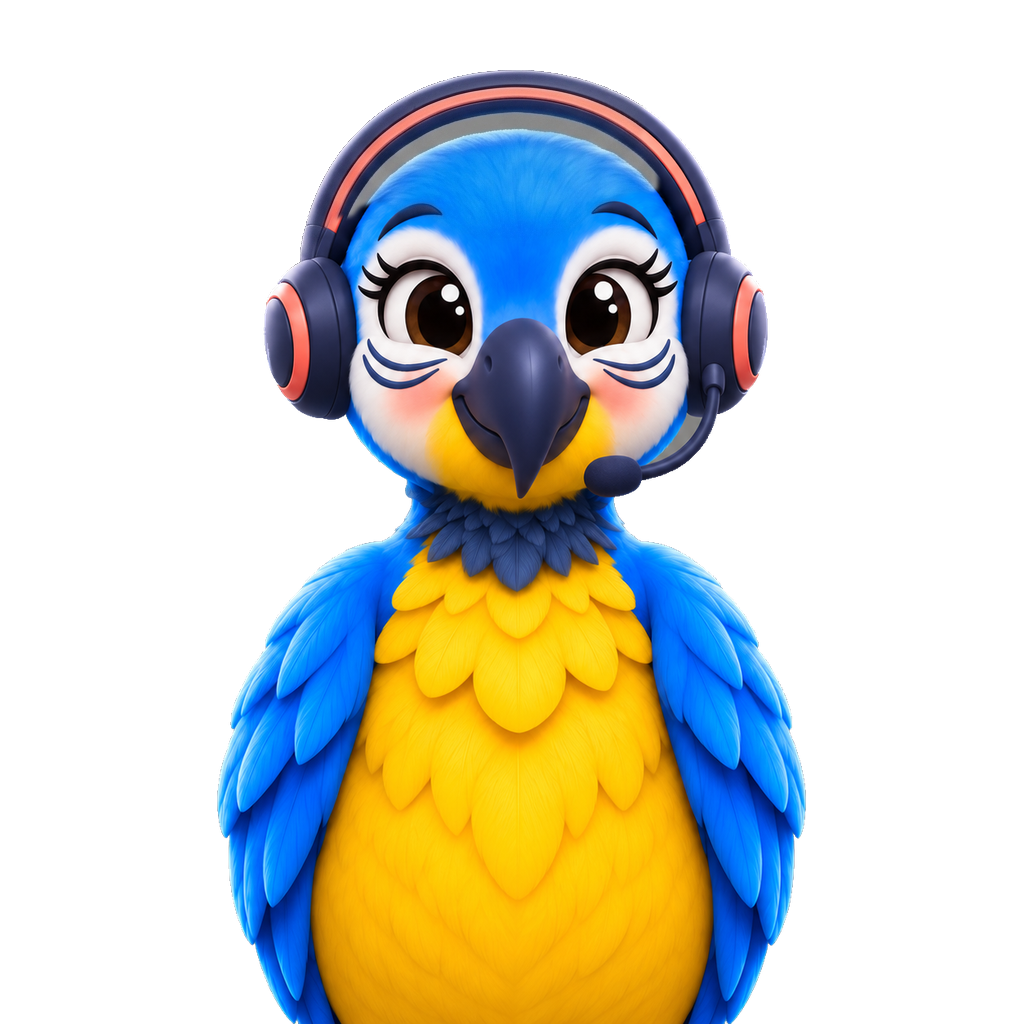
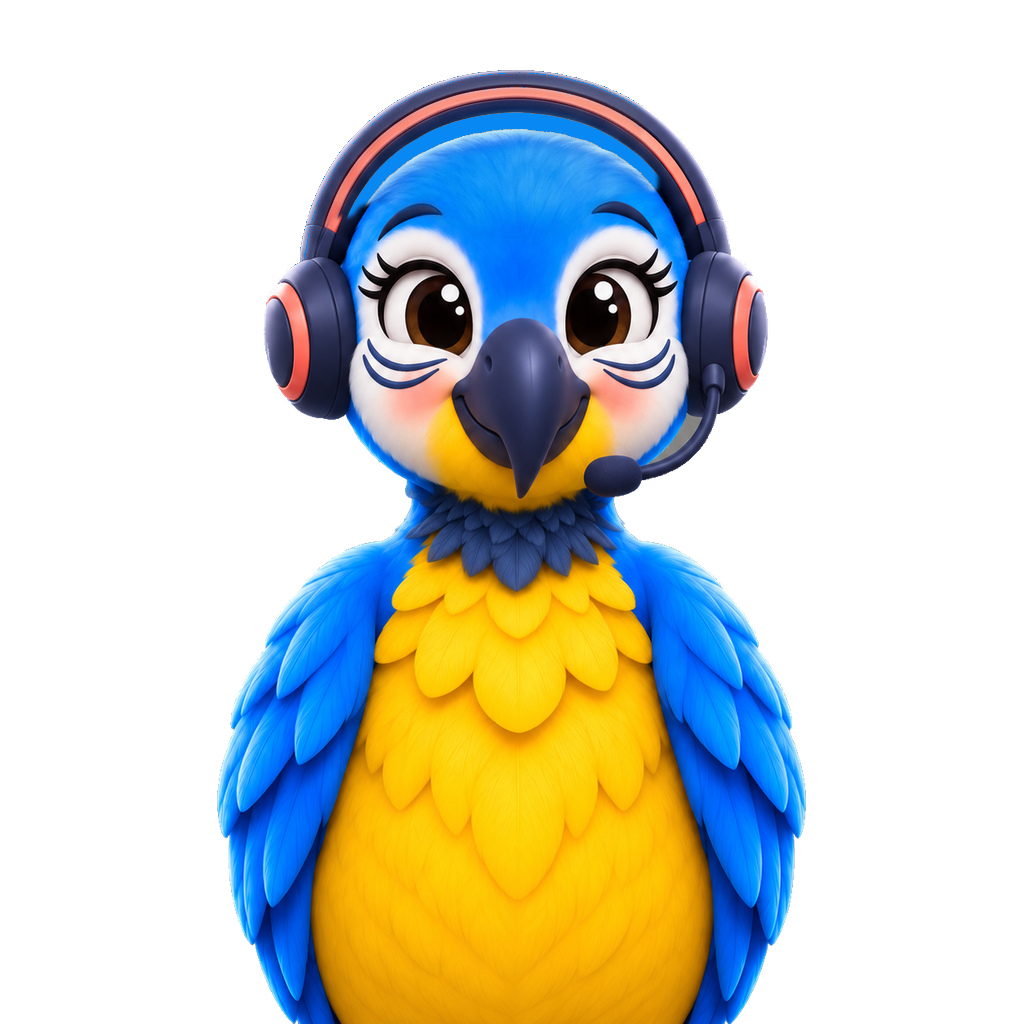
docs(arara): ART-12 opção A, derivação visual aceitável, aguarda OK

Changed region(s): [[0.3438, 0.0938, 0.625, 0.2188], [0.625, 0.1562, 0.6562, 0.1875]]

diff --git a/_ponte_claude/entregas/ART-12_topete_teste_20261113.md b/_ponte_claude/entregas/ART-12_topete_teste_20261113.md
@@ -14,3 +14,9 @@
 A. Mais uma passada: gerar o topete isolado (mais uma imagem, cerca de US$ 0,07) e montar a base só no topo, com máscara à mão para a banda do fone. Não garante o critério "ao pixel"; o critério visual (sem buraco a ±8°) é viável.
 B. Relaxar o critério para o Claude Code: topete por cima com pivô e sem exigir identidade ao pixel do K00.
 C. Ficar como está (topete animado só nas expressões K06).
+
+## Atualização, opção A (13/11/2026, ~00h35 UTC)
+- O topete isolado gerado (`_teste_topete/rara_topete_isolado_gerado.jpg`) NÃO serve: saiu em outra posição, maior, com um "saiote" de penas inventado. Descartado (1 imagem, cerca de US$ 0,07).
+- Terceira derivação por código, usando o topete do próprio K00 (recorte por cor com fechamento morfológico) e a cabeça gerada como base, com o vão entre o fone e a cabeça preenchido no azul da cabeça. Folha `_qa/_qa_topete_teste.png`.
+- Medido contra o K00: base + topete difere em cerca de 12,9 mil pixels com diff > 2 e 6,1 mil com diff > 40 (de 1.048.576). O critério "ao pixel" NÃO é atendido; o visual (sem buraco, topete girado ±8°) fica aceitável, com um fio escuro de banda do fone no alto do topete.
+- Arquivos em `_teste_topete/` (`rara_base_sem_topete_1024.png`, `rara_topete_1024.png`), pivô provisório (467, 231) no quadro de 1024. NÃO copiados para `kit/rara/` até o OK visual do Rodrigo e a decisão de relaxar o critério com o Claude Code.
